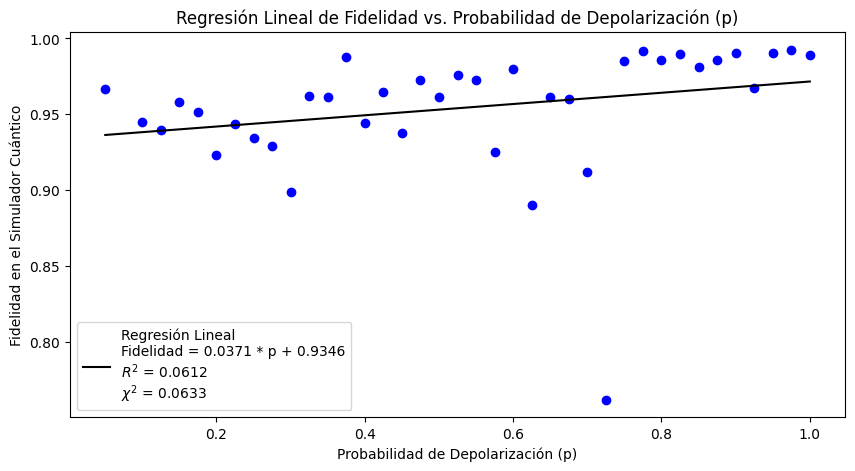
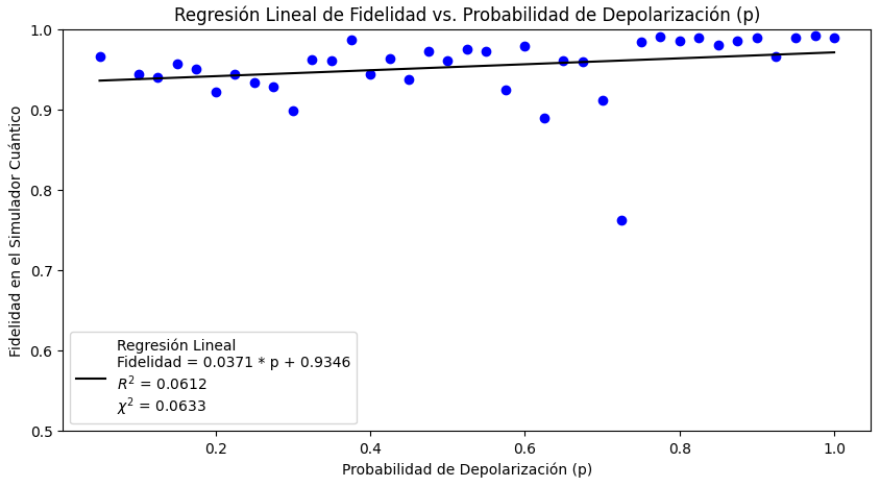
Iteración Final - Versión de examen privado

diff --git a/Presentacion/sample.tex b/Presentacion/sample.tex
@@ -23,7 +23,7 @@
 %    TITLE PAGE
 %----------------------------------------------------------------------------------------
 
-\title{Implementación de canales cuánticos de un qubit usando Algoritmos Variacionales Cuánticos}
+\title{Implementación de canales cuánticos de un qubit usando algoritmos variacionales cuánticos}
     \author{Felipe Ixcamparic \\
 \textbf{Asesores:} Dr. Carlos Pineda y Dr. Giovanni Ramírez}
 
@@ -55,7 +55,7 @@
     \titlepage
 \end{frame}
 
-\begin{frame}{Overview}
+\begin{frame}{Descripción General}
     % Throughout your presentation, if you choose to use \section{} and \subsection{} commands, these will automatically be printed on this slide as an overview of your presentation
     \tableofcontents
 \end{frame}
@@ -67,10 +67,10 @@
 \begin{frame}{Introducción}
 \vspace{-0.4em}
 \begin{itemize}
-    \item En la computación cuántica, modelar cómo evoluciona un sistema abierto es fundamental.
+    \item En el estudio de sistemas cuánticos, modelar cómo evoluciona un sistema abierto es fundamental.
     
     \medskip
-    \item Esto se describe mediante \textbf{canales cuánticos}: operadores que representan la interacción del sistema con su entorno.
+    \item Esto se describe mediante \textbf{canales cuánticos}: operadores que representan la interacción del sistema con un entorno.
 
     \medskip
     \item Sin embargo, los canales cuánticos ideales son difíciles de implementar en dispositivos reales debido al \textbf{ruido cuántico}.
@@ -127,20 +127,22 @@
 \begin{columns}
     \column{0.60\textwidth}
     \begin{itemize}
-        \item Un estado cuántico puro se representa por un vector:
-
         \bigskip
-        \medskip
+        \item Un sistema cuántico se describe por un estado cuántico puro:
+        \bigskip
+        \bigskip
+        % \bigskip
         \item La \textbf{matriz densidad} $\rho$ describe tanto estados puros como mezclas estadísticas (mixtos).
         \bigskip
         \medskip
         \item Cuando el sistema está compuesto por dos partes ($A$ y $B$), podemos usar la \textbf{traza parcial} para estudiar solo una de ellas.
 
     \end{itemize}
-
     \column{0.42\textwidth}
     $$
-    \ket{\psi} = \sum_i c_i \ket{i}
+    \ket{\psi} = \sum_{i=1}^d c_i \ket{i},
+    \qquad 
+    \sum_i |c_i|^2 = 1
     $$
     \smallskip
     $$
@@ -150,7 +152,6 @@
     \end{cases}
     $$
     \medskip
-    
     $$
     \mathcal{H}_{AB} = \mathcal{H}_{A} \otimes \mathcal{H}_B
     $$
@@ -245,7 +246,7 @@
 \begin{columns}
   \column{0.58\textwidth}
   \begin{itemize}
-    \item Un \textbf{canal cuántico} $\mathcal{E}$ modela la evolución de un sistema cuántico.
+    \item Un \textbf{canal cuántico} $\mathcal{E}$ modela la evolución de un sistema cuántico tomando en cuenta la influencia de un entorno.
     \bigskip
         \item Se pueden representar por una única \textbf{matriz de Choi}:
     \bigskip
@@ -374,7 +375,7 @@
 \begin{columns}
     \column{0.65\textwidth}
     \begin{itemize}
-        \item La \textbf{tomografía de proceso} permite reconstruir un canal cuántico $\mathcal{E}$ experimentalmente, a partir de mediciones.
+        \item La \textbf{tomografía de proceso} permite reconstruir un canal cuántico $\Lambda_\mathcal{E}$ experimentalmente, a partir de mediciones.
 
         % \medskip
         % \item Las salidas $\mathcal{E}(\ketbra{\psi_j}{\psi_j})$ permiten reconstruir $\Lambda_{\mathcal{E}}$.
@@ -471,7 +472,7 @@
 
   \column{0.56\textwidth}
   \begin{itemize}
-    \item Combinan computación cuántica con optimización clásica.
+    \item Combinan computación cuántica con optimización clásica para resolver una tarea.
     \bigskip
     \item Preparan un estado mediante un \textbf{circuito parametrizado}.
     \bigskip
@@ -527,7 +528,7 @@
         \end{figure}
 \end{frame}
 
-\section{Resultados para el Canal Despolarizante de un qubit}
+\section{Resultados para el canal despolarizante de un qubit}
 %------------------------------------------------
 
 \begin{frame}{Resultados}
@@ -585,7 +586,7 @@
     \column{0.50\textwidth}
     \small
     \begin{itemize}
-        \item Se fijaron hiperparámetros: HEA de 1 capa y 2 qubits.
+        \item Se fijaron hiperparámetros: HEA de 1 capa y 4 qubits.
         \item Tiempo máximo de ejecución (gratuito) mensual: 10 minutos.
         \item Cada tomografía de proceso toma en promedio 16 segundos.
         \item Validación realizada:
@@ -816,8 +817,8 @@
     \end{subfigure}
     \vspace{1em}
     \begin{subfigure}[t]{\linewidth}
-      \includegraphics[width=\linewidth,height=0.48\textheight,keepaspectratio]{imagenes/comp_choi_p0.7.png}
-      \caption{Resultados para $p=0.7$}
+      \includegraphics[width=\linewidth,height=0.48\textheight,keepaspectratio]{imagenes/comp_choi_p0.8.png}
+      \caption{Resultados para $p=0.8$}
     \end{subfigure}
   \end{figure}
 
@@ -866,6 +867,17 @@
     
     % \item El estudio demuestra que los VQA son una herramienta prometedora para simular canales cuánticos en hardware cuántico, aunque su desempeño está condicionado por el ruido y la calidad del dispositivo.
 \end{itemize}
+\end{frame}
+
+\begin{frame}{Trabajo Futuro}
+\begin{itemize}
+\item Explorar nuevos tipos de \textit{ansatz}, más allá del HEA, para mejorar el desempeño en computadoras cuánticas reales.
+
+\item Extender la implementación a canales cuánticos de múltiples qubits, considerando los desafíos de escalabilidad y ruido.
+
+\item Realizar la optimización directamente en hardware cuántico, evaluando otras plataformas con menor restricción de tiempo.
+\end{itemize}
+    
 \end{frame}
 
 %------------------------------------------------
